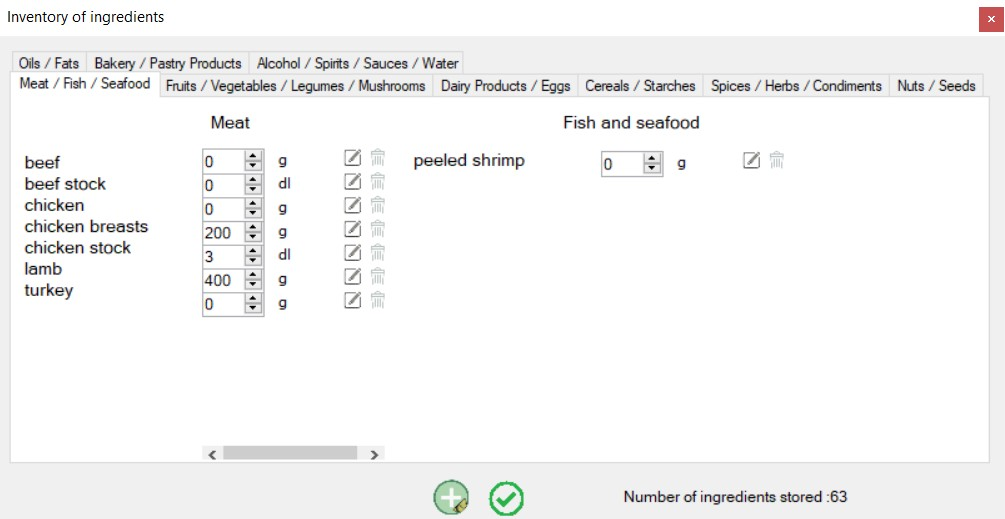
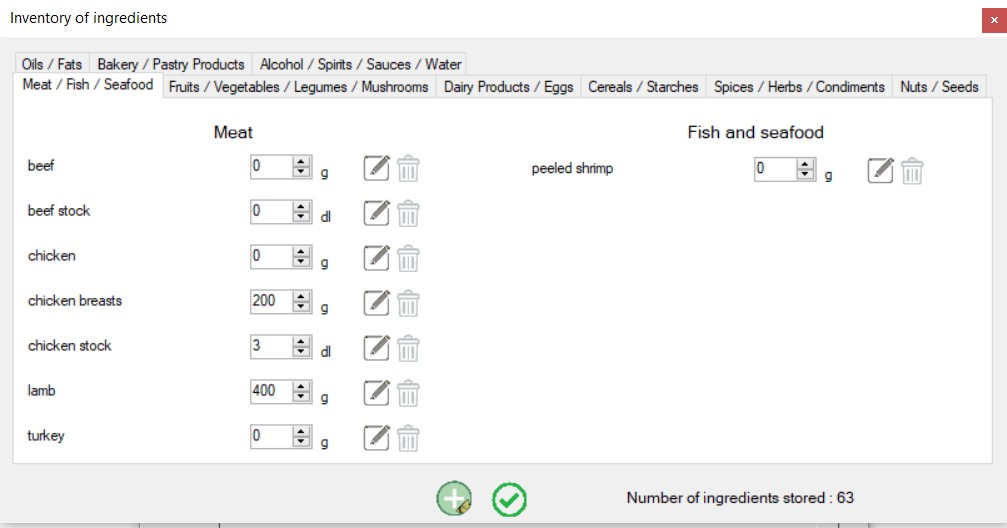
Corrigé la désynchronisation des instructions ES : recalcul des recipe_id et réindexation complète des rank d'instructions, purge des entrées invalides. Cohérence restaurée pour toutes les recettes.

diff --git a/Recipe-Writer/Recipe-Writer/frmMain.cs b/Recipe-Writer/Recipe-Writer/frmMain.cs
@@ -6,7 +6,6 @@
 using Recipe_Writer.Properties;
 using System;
 using System.Collections.Generic;
-using System.Diagnostics.Eventing.Reader;
 using System.Drawing;
 using System.IO;
 using System.Linq;
@@ -65,7 +64,7 @@ namespace Recipe_Writer
         /// </summary>
         public DBConnection dbConn = new DBConnection();
 
-        private const int InstructionFontMin = 10;  
+        private const int InstructionFontMin = 9;  
         private const int InstructionFontMax = 24;
 
         public int InstructionFontSize
